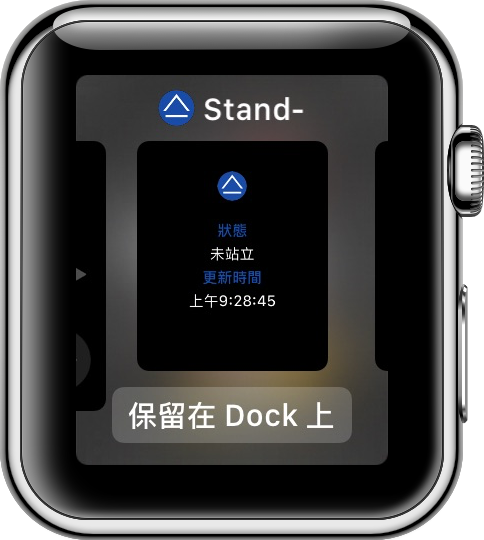
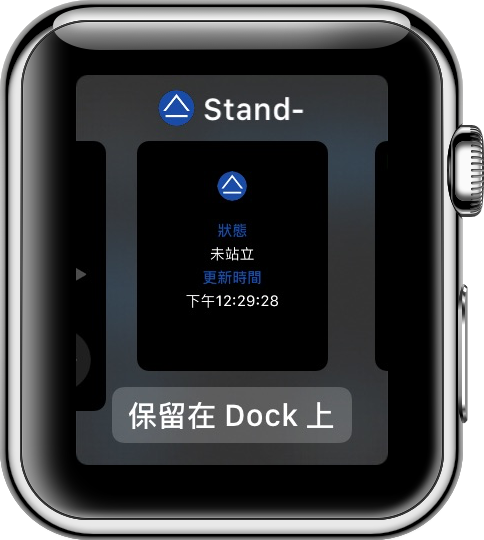
* changed interface * changed some codes * translation changes * changed incorrect pictures

diff --git a/Stand Minus WatchKit Extension/InterfaceController.swift b/Stand Minus WatchKit Extension/InterfaceController.swift
@@ -62,7 +62,12 @@ class InterfaceController: WKInterfaceController {
     private func updateUI() {
         func labelOfHasStood() -> String {
             if hasStood == nil { return NSLocalizedString("Watch Locked", comment: "Watch Locked") }
-            return hasStood! ? NSLocalizedString("Already stood", comment: "Already stood") : NSLocalizedString("Not stood yet", comment: "Not stood yet")
+            if hasStood! {
+                return NSLocalizedString("Already stood", comment: "Already stood")
+            }
+            else {
+                return NSLocalizedString("Not stood yet", comment: "Not stood yet.")
+            }
         }
         fireDateLabel.setText(DateFormatter.localizedString(from: fireDate, dateStyle: .none, timeStyle: .medium))
         hasStoodLabel.setText(labelOfHasStood())
